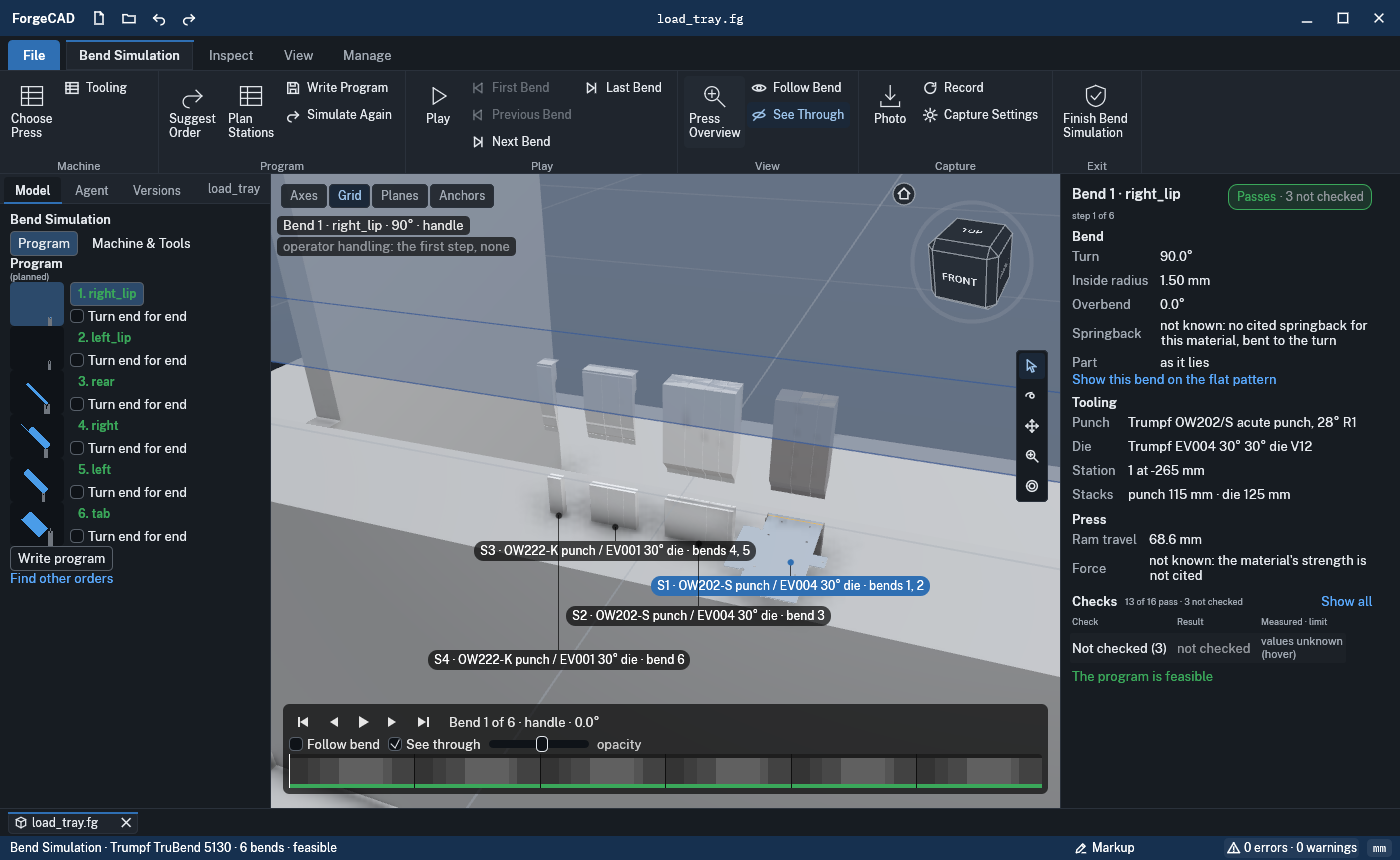
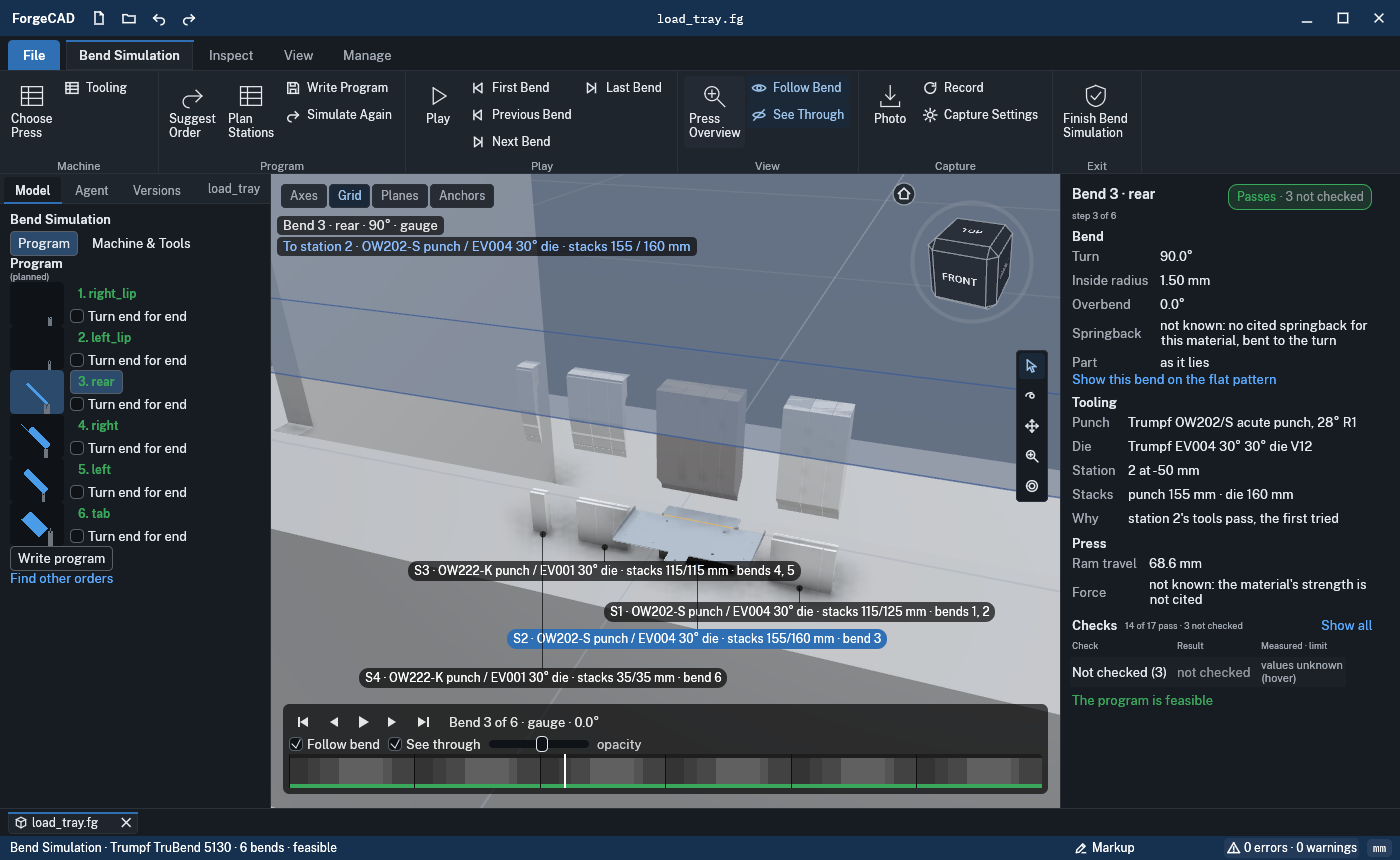
bendsim: the eye goes to every station; why each bend has its tools; the station change said
David on showcase-1: "the camera only moves on the last tool", "why are we no longer planning
each new tool".
- Camera: Follow bend panned only when the part neared the frame's edge, and the station it last
  followed was overwritten each frame, so a station change 164-211 mm along the bed (S2, S4 on
  the TruBend tray) started no move. Now a step at another station than the one last followed
  pans the eye along the bed to it once the handling is over (it holds through the in and out).
- Why: each bend's Tooling says why its tools: "chosen from 199 setups tried: 120 ..., the most
  common reasons first", the setups and the rule each failed on hover; or "kept: station 1's tools
  pass" (stage bending keeps the tools mounted).
- The station change said over the view while the part goes there: "To station 2 · OW202-S punch
  / EV004 30° die · stacks 155 / 160 mm"; the overview's chips carry the stacks' lengths (why the
  same tools stand at two stations).

Test: the_eye_goes_to_every_station (at each bend the eye's target within 15 mm of its station
along the bed; failing before at step 3, the eye at -261 for the station at -50); its why lines.

Claude-Session: https://claude.ai/code/session_01WJtawvw7eU93rVnY2Eejbc

diff --git a/interface/forge-render/src/shell/bendsim.rs b/interface/forge-render/src/shell/bendsim.rs
@@ -1452,6 +1452,58 @@ fn doc_buttons(ui: &mut egui::Ui, st: &mut BendSimUi) {
 }
 
 /// A row of the property sheet: its label, its value (with its unit), its key on hover.
+/// Why a step has its tools, in a line, and the setups tried with the rule each failed (its hover).
+pub fn why_tools(sim: &Sim, k: usize) -> (String, String) {
+    let Some(s) = sim.plan.steps.get(k) else {
+        return (String::new(), String::new());
+    };
+    let tried = s.rejected.len() + 1;
+    if s.rejected.is_empty() {
+        let line = match (s.station, k) {
+            (Some(j), _) if k > 0 && sim.plan.steps[..k].iter().any(|p| p.station == Some(j)) => {
+                format!("kept: station {}'s tools pass", j + 1)
+            }
+            (Some(j), _) => format!("station {}'s tools pass, the first tried", j + 1),
+            _ => "the first setup tried passes".to_string(),
+        };
+        return (line, String::new());
+    }
+    // the rules the others failed, the most common first
+    let mut by: Vec<(fb::Rule, usize)> = Vec::new();
+    for r in &s.rejected {
+        match by.iter_mut().find(|x| x.0 == r.3) {
+            Some(x) => x.1 += 1,
+            None => by.push((r.3, 1)),
+        }
+    }
+    by.sort_by_key(|x| std::cmp::Reverse(x.1));
+    let top: Vec<String> = by
+        .iter()
+        .take(3)
+        .map(|(r, n)| format!("{n} {}", cards::rule_failed(*r)))
+        .collect();
+    let more = if by.len() > 3 { " · …" } else { "" };
+    let line = format!("chosen from {tried} setups tried: {}{more}", top.join(" · "));
+    let mut list: Vec<String> = s
+        .rejected
+        .iter()
+        .take(40)
+        .map(|(p, d, rot, r)| {
+            format!(
+                "{} punch on {} die{}: {}",
+                super::bendsim_env::tool_words(p),
+                super::bendsim_env::tool_words(d),
+                if *rot { ", turned" } else { "" },
+                cards::rule_failed(*r)
+            )
+        })
+        .collect();
+    if s.rejected.len() > 40 {
+        list.push(format!("… and {} more", s.rejected.len() - 40));
+    }
+    (line, list.join("\n"))
+}
+
 fn prop(ui: &mut egui::Ui, t: &Theme, label: &str, value: String, key: Option<&str>) {
     let r = ui.label(egui::RichText::new(label).color(t.ink2));
     if let Some(k) = key {
@@ -1752,6 +1804,15 @@ pub fn bend_sheet(ui: &mut egui::Ui, t: &Theme, st: &mut BendSimUi) -> Option<St
                         None,
                     );
                 }
+                // why these tools (David): what the planner tried for this bend and why each
+                // went, or that it kept the tools on the bed
+                let (line, list) = why_tools(sim, st.step);
+                ui.label(egui::RichText::new("Why").color(t.ink2));
+                let r = ui.add(egui::Label::new(egui::RichText::new(line).color(t.ink)).wrap());
+                if !list.is_empty() {
+                    r.on_hover_text(list);
+                }
+                ui.end_row();
             });
         head(ui, t, "Press");
         egui::Grid::new("bendsim-sheet-press")
@@ -2368,6 +2429,25 @@ pub fn overlay(ui: &egui::Ui, rect: egui::Rect, st: &mut BendSimUi) {
             ),
             egui::Color32::from_gray(230),
         ));
+        // the part moved to another station (its tools, its stacks): said while it goes there and
+        // is set to the stop, brief (David: each new tool shown)
+        let moved = s.station.filter(|_| matches!(stage, Stage::Handle | Stage::Gauge | Stage::Approach)).filter(|&j| {
+            st.step == 0 || sim.plan.steps[st.step - 1].station != Some(j)
+        });
+        if let Some(j) = moved {
+            let ss = &sim.tooling.stations[j];
+            lines.push((
+                format!(
+                    "To station {} · {} punch / {} die · stacks {:.0} / {:.0} mm",
+                    j + 1,
+                    super::bendsim_env::tool_words(&sim.tooling.punches[ss.punch].id),
+                    super::bendsim_env::tool_words(&sim.tooling.dies[ss.die].id),
+                    ss.punch_length,
+                    ss.die_length
+                ),
+                egui::Color32::from_rgb(140, 190, 255),
+            ));
+        }
         if stage == Stage::Handle {
             let h = s.checks.iter().find(|c| c.rule == fb::Rule::Handling);
             lines.push(match h {

diff --git a/interface/forge-render/tests/bendsim_env.rs b/interface/forge-render/tests/bendsim_env.rs
@@ -1756,3 +1756,75 @@ fn a_480_px_window_enters_without_a_panic() {
         }
     }
 }
+
+/// The eye goes to every station the part moves to (David: "the camera only moves on the last
+/// tool"): played as a recording plays it (Follow bend), at each step's bend the eye's target
+/// stands at that step's station along the bed, every station change, not only those that put
+/// the part near the frame's edge.
+#[test]
+fn the_eye_goes_to_every_station() {
+    let Some(mut h) = headless() else { return };
+    let part = concat!(env!("CARGO_MANIFEST_DIR"), "/../../examples/sheetmetal/load_tray.fg");
+    open(&mut h, part);
+    click(&mut h, "tab:Environments");
+    click(&mut h, "tool:Bend Simulation");
+    let c = Choice {
+        press: Some("trumpf-trubend-5130".into()),
+        stations_auto: true,
+        ..Choice::default()
+    };
+    h.gui.shell.sheet.bend_sim.as_mut().unwrap().redo(c, "std-eu");
+    for _ in 0..4 {
+        h.step();
+    }
+    let total = h.gui.shell.env_timeline().unwrap().duration(&h.gui.shell);
+    let n = 240;
+    h.gui.shell.env_timeline().unwrap().seek(&mut h.gui.shell, 0.0);
+    for _ in 0..20 {
+        h.step();
+    }
+    let mut seen = std::collections::BTreeMap::new();
+    for i in 0..n {
+        let tl = h.gui.shell.env_timeline().unwrap();
+        tl.seek(&mut h.gui.shell, total * i as f64 / (n - 1) as f64);
+        h.step();
+        let b = h.gui.shell.sheet.bend_sim.as_ref().unwrap();
+        // the middle of the bend: the eye has had the handling's end, the gauge and the approach
+        if (b.t - 0.55).abs() > 0.03 {
+            continue;
+        }
+        let sim = b.sim.as_ref().unwrap();
+        let st = &sim.plan.steps[b.step];
+        let y = sim.tooling.stations[st.station.expect("staged")].y as f32;
+        let eye = h.gui.view.as_ref().unwrap().nav.camera.target[1];
+        seen.insert(b.step, (st.station.unwrap(), y, eye));
+    }
+    // why each bend has its tools (David): the first bend at a station chosen from what was
+    // tried, a later one at the same station kept
+    {
+        let sim = h.gui.shell.sheet.bend_sim.as_ref().unwrap().sim.as_ref().unwrap();
+        let (first, list) = forge_render::shell::bendsim::why_tools(sim, 0);
+        assert!(first.starts_with("chosen from ") && first.contains("setups tried"), "{first}");
+        assert!(!list.is_empty());
+        let (second, _) = forge_render::shell::bendsim::why_tools(sim, 1);
+        assert!(second.starts_with("kept: station 1"), "{second}");
+    }
+    // the shots: step 3's move to station 2 (its caption), and the overview's chips
+    {
+        let b = h.gui.shell.sheet.bend_sim.as_mut().unwrap();
+        b.playing = false;
+        b.step = 2;
+        b.t = 0.2;
+    }
+    shot(&mut h, "ux-station-change-caption");
+    click(&mut h, "tool:Press Overview");
+    for _ in 0..20 {
+        h.step();
+    }
+    shot(&mut h, "ux-overview-station-chips");
+    let stations: std::collections::BTreeSet<usize> = seen.values().map(|x| x.0).collect();
+    assert!(stations.len() >= 3, "{seen:?}");
+    for (k, (s, y, eye)) in &seen {
+        assert!((eye - y).abs() < 15.0, "step {} at S{}: the eye at y {eye:.0}, the station at {y:.0}", k + 1, s + 1);
+    }
+}

diff --git a/interface/forge-render/src/gui_bendsim.rs b/interface/forge-render/src/gui_bendsim.rs
@@ -38,6 +38,10 @@ pub struct BendView {
     /// The working station's place along the bed when framed: the part moved to another
     /// station, the eye follows it there.
     station: Option<u64>,
+    /// The station the eye was last brought to (framed there, or panned there by Follow bend): a
+    /// step at another one pans the eye along the bed to it (David: the eye goes to each station
+    /// the part moves to, and holds through the handling there).
+    followed: Option<u64>,
     /// The press's parts cut away for the eye (the Work framing's near walls), and the framed
     /// subject they are cut for (none in Press Overview).
     cut: Vec<String>,
@@ -834,6 +838,7 @@ impl Gui {
             }
             self.bend.framed = true;
             self.bend.goal = None;
+            self.bend.followed = at;
         }
         self.bend.station = at;
         self.bend.step = Some(step);
@@ -883,6 +888,16 @@ impl Gui {
         // the operator's handling (the pull out, the turns) starts no move: the eye stands still
         // through it and the part comes back to the tools where the eye is (David)
         let handling = forge_brake::scene::stage_at(b.t).0 == forge_brake::scene::Stage::Handle;
+        // the part at another station: the eye pans along the bed to it, its height and distance
+        // kept, once the handling is over (before the bend is made there)
+        if self.bend.goal.is_none() && !handling && self.bend.station != self.bend.followed {
+            if let Some(y) = self.bend.station.map(|y| f64::from_bits(y) as f32) {
+                let mut t = cam.target;
+                t[1] = y;
+                self.bend.goal = Some(((cam.target, cam.dist), (t, cam.dist), 0));
+            }
+            self.bend.followed = self.bend.station;
+        }
         if self.bend.goal.is_none() && !handling {
             let m = cam.view(v.size.0.max(1), v.size.1.max(1)).matrix;
             let ndc = |p: [f32; 3]| {

diff --git a/interface/forge-render/src/shell/bendsim_env.rs b/interface/forge-render/src/shell/bendsim_env.rs
@@ -591,11 +591,14 @@ pub fn chips(ui: &Ui, view: Rect, camera: Option<(crate::camera::Camera, (u32, u
             "punch {} · die {}",
             sim.tooling.punches[st.punch].id, sim.tooling.dies[st.die].id
         );
+        // the stacks' lengths too: why the same tools stand at two stations (the coordinator)
         let text = format!(
-            "S{} · {} punch / {} die · {}",
+            "S{} · {} punch / {} die · stacks {:.0}/{:.0} mm · {}",
             k + 1,
             short(&sim.tooling.punches[st.punch].id),
             short(&sim.tooling.dies[st.die].id),
+            st.punch_length,
+            st.die_length,
             if bends.is_empty() {
                 "no bends".to_string()
             } else {
